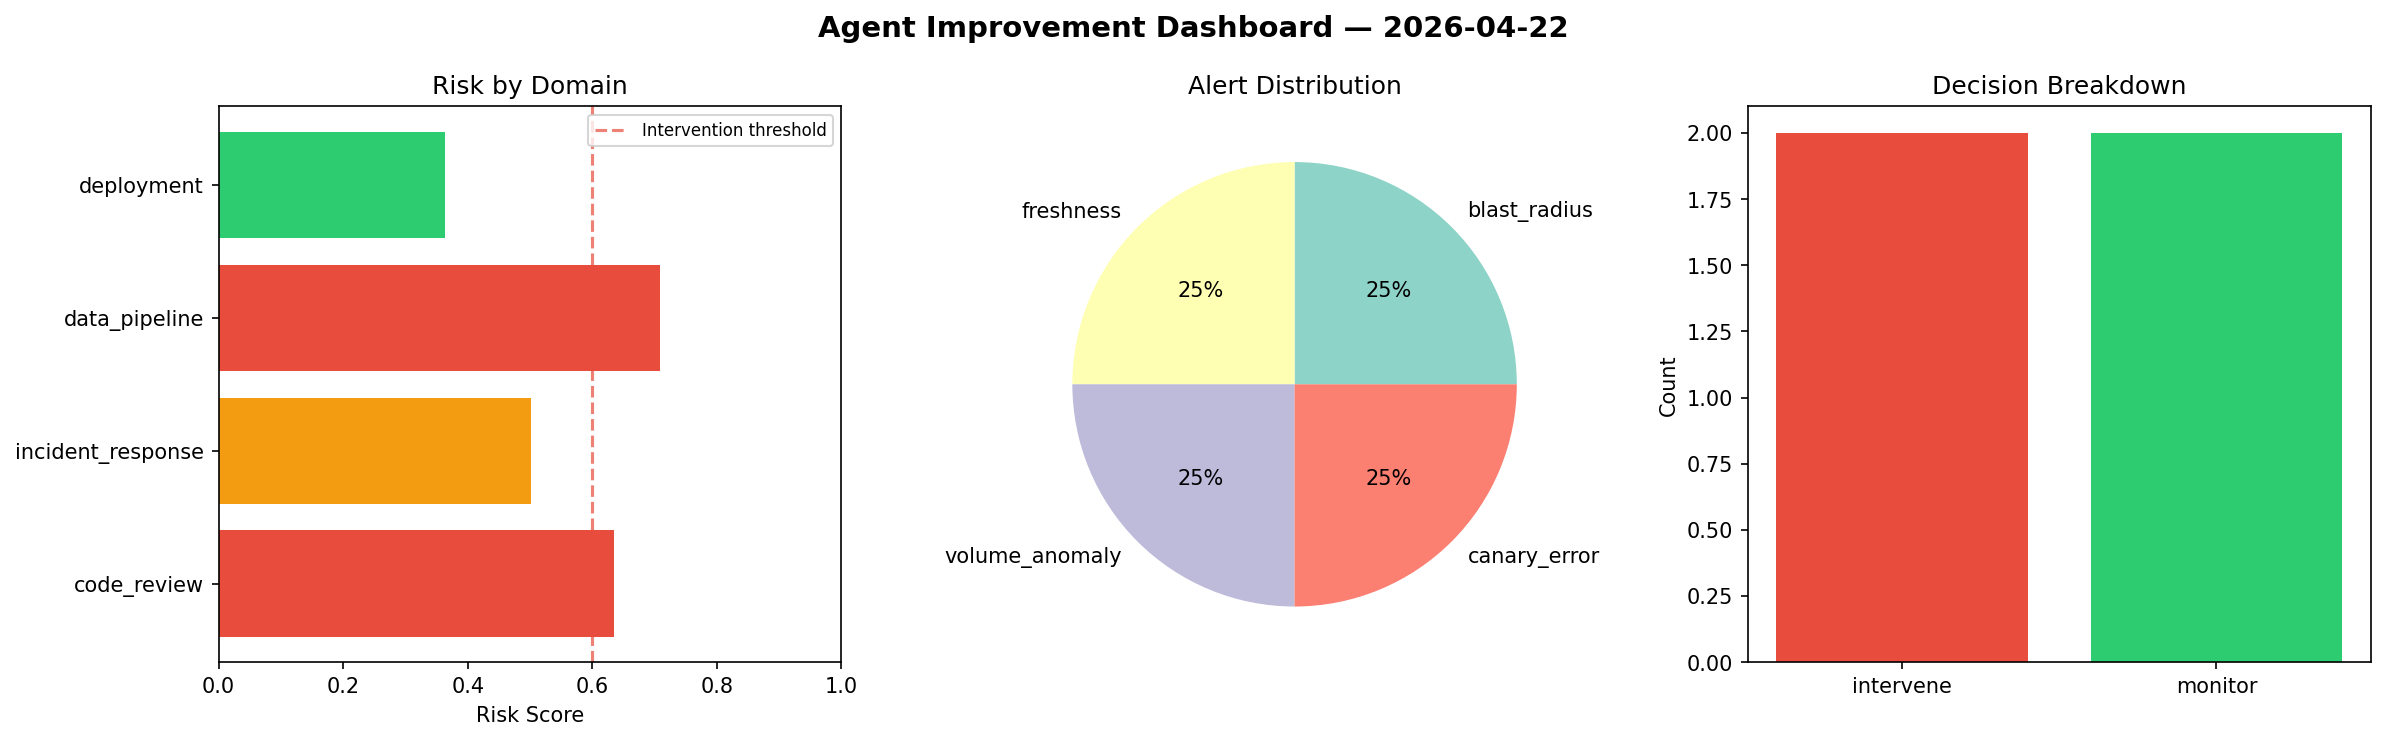
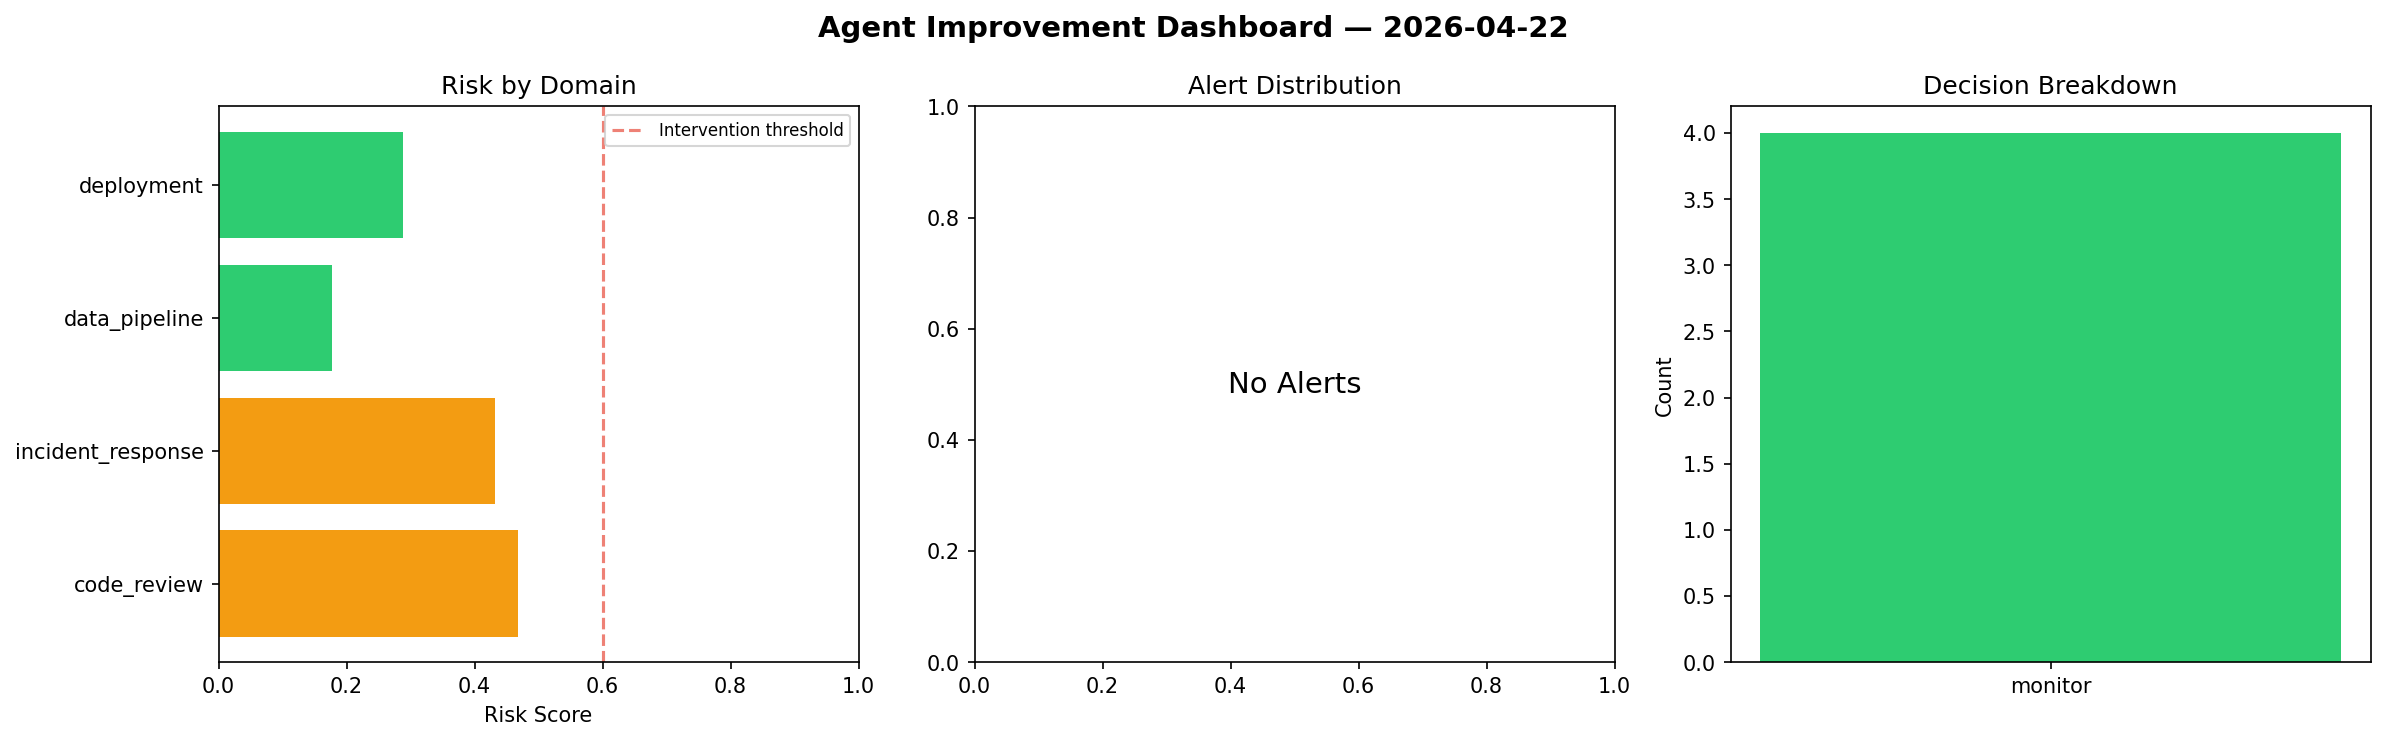
agent-improvement: daily cycle 2026-04-22T09:51

diff --git a/logs/2026-04-22.md b/logs/2026-04-22.md
@@ -1,6 +1,6 @@
 # Agent Improvement Report — 2026-04-22
 
-**Cycle ID:** `7bf4a464` | **Avg Risk:** 0.552 | **Interventions:** 2/4
+**Cycle ID:** `b438dbcd` | **Avg Risk:** 0.3416 | **Interventions:** 0/4
 
 ![Dashboard](2026-04-22_dashboard.png)
 
@@ -10,18 +10,18 @@
 
 | Domain | Risk Score | Decision | Alerts |
 |--------|-----------|----------|--------|
-| code_review | 0.6349 | intervene | none |
-| incident_response | 0.5011 | monitor | blast_radius |
-| data_pipeline | 0.7084 | intervene | freshness, volume_anomaly |
-| deployment | 0.3636 | monitor | canary_error |
+| code_review | 0.468 | monitor | none |
+| incident_response | 0.432 | monitor | none |
+| data_pipeline | 0.1777 | monitor | none |
+| deployment | 0.2886 | monitor | none |
 
 ## Delta vs Yesterday
 
 | Domain | Today | Yesterday | Change |
 |--------|-------|-----------|--------|
-| code_review | 0.6349 | 0.4449 | 📈 42.7% |
-| incident_response | 0.5011 | 0.7048 | 📉 -28.9% |
-| data_pipeline | 0.7084 | 0.4874 | 📈 45.3% |
-| deployment | 0.3636 | 0.3441 | 📈 5.7% |
+| code_review | 0.468 | 0.4449 | 📈 5.2% |
+| incident_response | 0.432 | 0.7048 | 📉 -38.7% |
+| data_pipeline | 0.1777 | 0.4874 | 📉 -63.5% |
+| deployment | 0.2886 | 0.3441 | 📉 -16.1% |
 
 **Refinement:** `{'adjustment': 'maintain', 'trend': 'improving', 'window': 4}`
